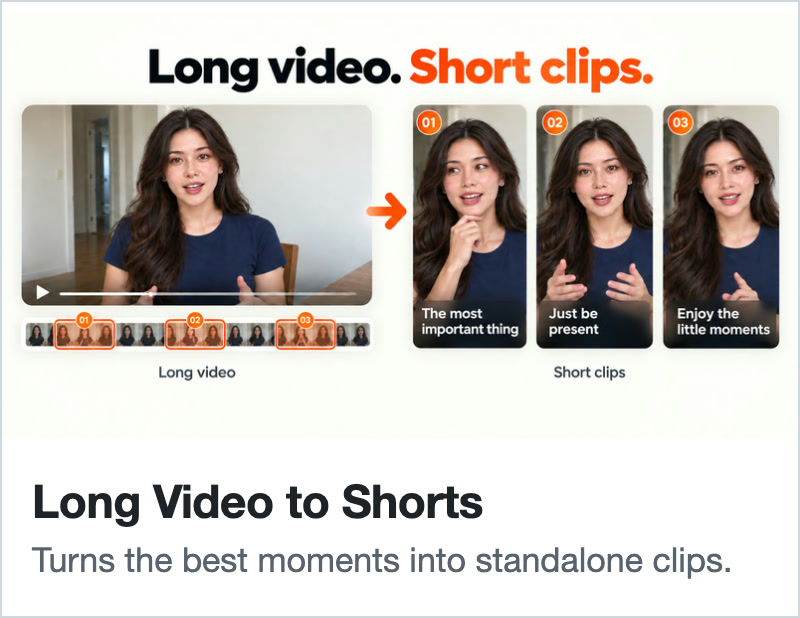
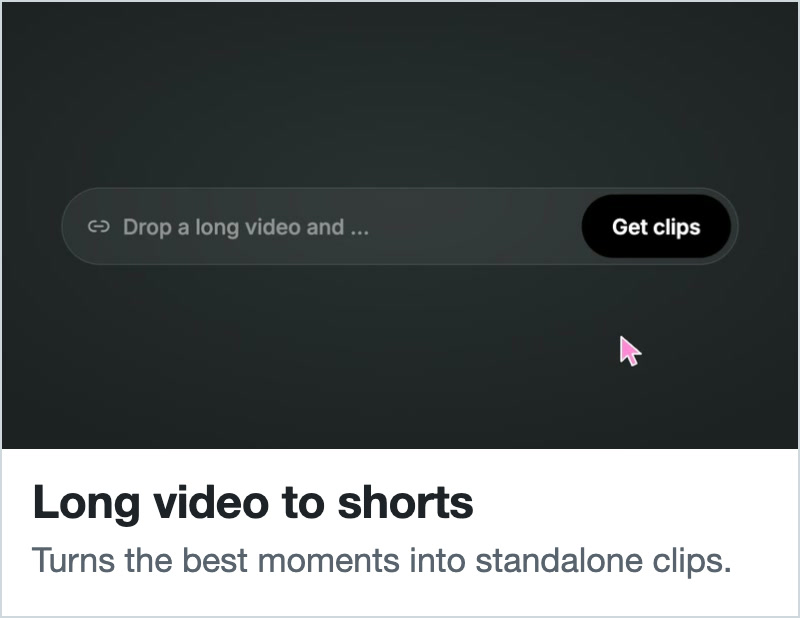
docs(readme): rebuild the Skill cards from the latest admin media
All nine card stills are regenerated from the current admin thumbnails and
preview videos. Two Skills had newer media: Add captions now shows its new
caption-style preview, and Long video to shorts shows its new cover. The
other seven previews are unchanged, so their stills come out identical.
Names follow admin: recreate-a-video is now "Talking-Head Edit Recreation"
and "Long video to shorts" uses admin's casing, in the cards and the
request table; links still use the same slugs.

diff --git a/README.md b/README.md
@@ -41,10 +41,10 @@
 <p align="center">
   <a href="https://chatcut.io/skills/speech-cleanup?utm_source=github&amp;utm_medium=readme&amp;utm_campaign=agent-plugin"><img src="docs/media/skills/speech-cleanup.jpg" width="260" alt="Speech Cleanup: removes retakes, long pauses and slips"></a>
   <a href="https://chatcut.io/skills/add-captions?utm_source=github&amp;utm_medium=readme&amp;utm_campaign=agent-plugin"><img src="docs/media/skills/add-captions.jpg" width="260" alt="Add captions: readable captions in a style that fits"></a>
-  <a href="https://chatcut.io/skills/long-video-to-shorts?utm_source=github&amp;utm_medium=readme&amp;utm_campaign=agent-plugin"><img src="docs/media/skills/long-video-to-shorts.jpg" width="260" alt="Long Video to Shorts: turns the best moments into standalone clips"></a>
+  <a href="https://chatcut.io/skills/long-video-to-shorts?utm_source=github&amp;utm_medium=readme&amp;utm_campaign=agent-plugin"><img src="docs/media/skills/long-video-to-shorts.jpg" width="260" alt="Long video to shorts: turns the best moments into standalone clips"></a>
   <a href="https://chatcut.io/skills/mg-packaging-editorial-explainer?utm_source=github&amp;utm_medium=readme&amp;utm_campaign=agent-plugin"><img src="docs/media/skills/mg-packaging-editorial-explainer.jpg" width="260" alt="Editorial Explainer: news-style motion graphics and data charts"></a>
   <a href="https://chatcut.io/skills/video-translation?utm_source=github&amp;utm_medium=readme&amp;utm_campaign=agent-plugin"><img src="docs/media/skills/video-translation.jpg" width="260" alt="Video Translation: your voice and picture, in another language"></a>
-  <a href="https://chatcut.io/skills/recreate-a-video?utm_source=github&amp;utm_medium=readme&amp;utm_campaign=agent-plugin"><img src="docs/media/skills/recreate-a-video.jpg" width="260" alt="Recreate a Video: matches a reference video with your footage"></a>
+  <a href="https://chatcut.io/skills/recreate-a-video?utm_source=github&amp;utm_medium=readme&amp;utm_campaign=agent-plugin"><img src="docs/media/skills/recreate-a-video.jpg" width="260" alt="Talking-Head Edit Recreation: recreates a reference edit with your footage"></a>
   <a href="https://chatcut.io/skills/app-promo-kinetic-type?utm_source=github&amp;utm_medium=readme&amp;utm_campaign=agent-plugin"><img src="docs/media/skills/app-promo-kinetic-type.jpg" width="260" alt="SaaS Kinetic Type Launch: a launch video from your site or screenshots"></a>
   <a href="https://chatcut.io/skills/animated-explainer-claymotion?utm_source=github&amp;utm_medium=readme&amp;utm_campaign=agent-plugin"><img src="docs/media/skills/animated-explainer-claymotion.jpg" width="260" alt="Claymotion: a narrated clay-animation short from a topic"></a>
   <a href="https://chatcut.io/skills/tvc-sugar-crystal-storm?utm_source=github&amp;utm_medium=readme&amp;utm_campaign=agent-plugin"><img src="docs/media/skills/tvc-sugar-crystal-storm.jpg" width="260" alt="Sugar Crystal Storm: a candy and snack TV commercial"></a>
@@ -56,10 +56,10 @@
 | --- | --- |
 | [Speech Cleanup](https://chatcut.io/skills/speech-cleanup?utm_source=github&utm_medium=readme&utm_campaign=agent-plugin) | `Clean up my talking-head take` |
 | [Add captions](https://chatcut.io/skills/add-captions?utm_source=github&utm_medium=readme&utm_campaign=agent-plugin) | `Add animated captions to my video` |
-| [Long Video to Shorts](https://chatcut.io/skills/long-video-to-shorts?utm_source=github&utm_medium=readme&utm_campaign=agent-plugin) | `Cut my podcast into shorts` |
+| [Long video to shorts](https://chatcut.io/skills/long-video-to-shorts?utm_source=github&utm_medium=readme&utm_campaign=agent-plugin) | `Cut my podcast into shorts` |
 | [Editorial Explainer](https://chatcut.io/skills/mg-packaging-editorial-explainer?utm_source=github&utm_medium=readme&utm_campaign=agent-plugin) | `Package my explainer with news-style motion graphics` |
 | [Video Translation](https://chatcut.io/skills/video-translation?utm_source=github&utm_medium=readme&utm_campaign=agent-plugin) | `Translate my video into Spanish` |
-| [Recreate a Video](https://chatcut.io/skills/recreate-a-video?utm_source=github&utm_medium=readme&utm_campaign=agent-plugin) | `Recreate this video with my footage` |
+| [Talking-Head Edit Recreation](https://chatcut.io/skills/recreate-a-video?utm_source=github&utm_medium=readme&utm_campaign=agent-plugin) | `Recreate this edit with my talking-head footage` |
 | [SaaS Kinetic Type Launch](https://chatcut.io/skills/app-promo-kinetic-type?utm_source=github&utm_medium=readme&utm_campaign=agent-plugin) | `Turn my app screenshots into a launch video` |
 | [Claymotion](https://chatcut.io/skills/animated-explainer-claymotion?utm_source=github&utm_medium=readme&utm_campaign=agent-plugin) | `Explain my idea as a clay animation` |
 | [Sugar Crystal Storm](https://chatcut.io/skills/tvc-sugar-crystal-storm?utm_source=github&utm_medium=readme&utm_campaign=agent-plugin) | `Make a TV ad for my snack` |
